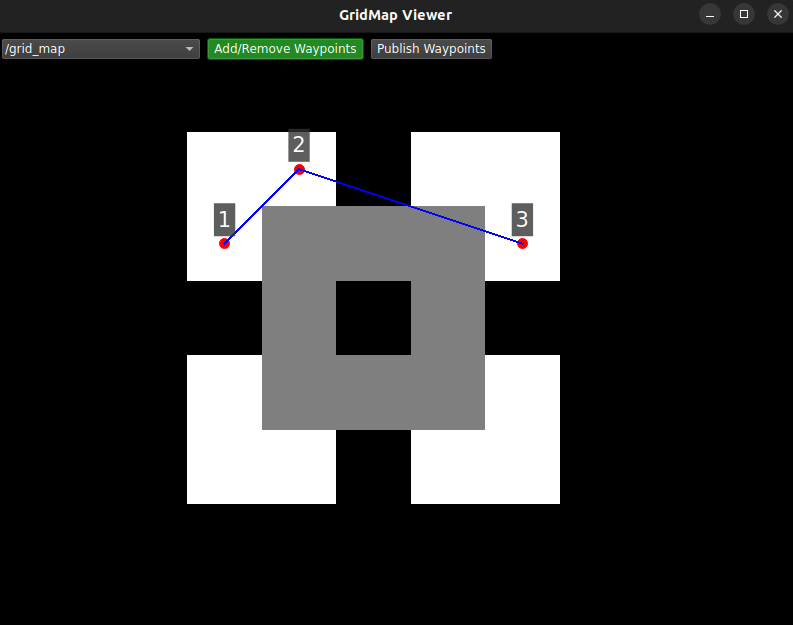
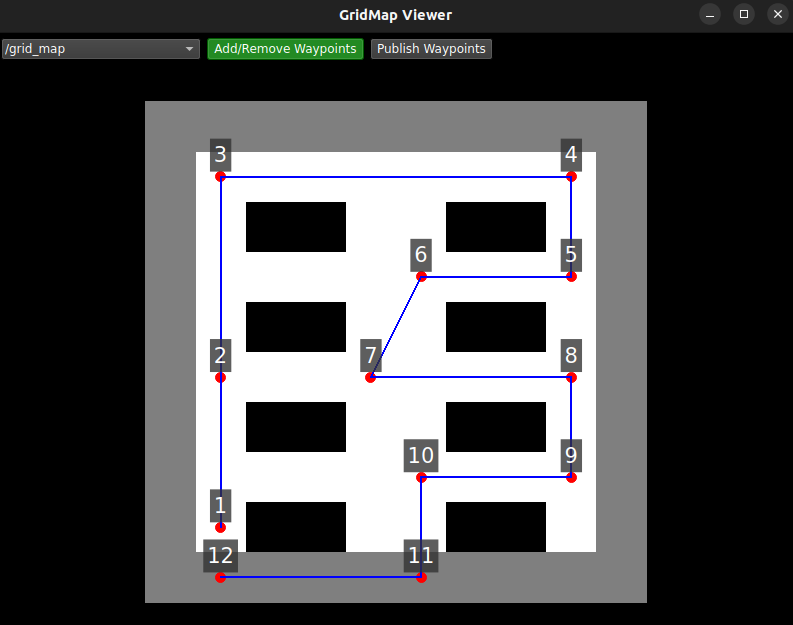
Add way to publish correctly the waypoints into ROS

diff --git a/ros2_teleoperation/gridmap_window.py b/ros2_teleoperation/gridmap_window.py
@@ -12,7 +12,7 @@ from PyQt6.QtWidgets import (
     QApplication, QMainWindow, QWidget,
     QVBoxLayout, QHBoxLayout, QComboBox, QPushButton
 )
-from PyQt6.QtCore import QTimer
+from PyQt6.QtCore import QTimer, QRectF
 from PyQt6.QtGui import QFont
 
 import pyqtgraph as pg
@@ -77,7 +77,6 @@ class GridMapViewer(QMainWindow):
         self.sub = None
         self.map_info = None
         self.waypoints = []
-        # Flag para no resetear vista después de la primera imagen
         self._first_map = True
 
         self.ros_timer = QTimer(self)
@@ -115,13 +114,13 @@ class GridMapViewer(QMainWindow):
         self._first_map = True
 
         if topic_name != '---':
-            sub_qos = QoSProfile(depth=1, reliability=ReliabilityPolicy.BEST_EFFORT)
+            qos = QoSProfile(depth=1, reliability=ReliabilityPolicy.BEST_EFFORT)
             self.sub = self.node.create_subscription(
-                OccupancyGrid, topic_name, self.og_callback, sub_qos)
+                OccupancyGrid, topic_name, self.og_callback, qos)
 
     def og_callback(self, msg: OccupancyGrid):
         self.map_info = msg.info
-        h, w = msg.info.height, msg.info.width
+        h, w = self.map_info.height, self.map_info.width
         data = np.array(msg.data, dtype=np.int8).reshape((h, w))
 
         img = np.empty((h, w), dtype=np.uint8)
@@ -130,6 +129,11 @@ class GridMapViewer(QMainWindow):
         img[data ==100] =   0
 
         self.img_item.setImage(img.T, autoLevels=False)
+        orig = self.map_info.origin.position
+        res = self.map_info.resolution
+        rect = QRectF(orig.x, orig.y, w * res, h * res)
+        self.img_item.setRect(rect)
+
         if self._first_map:
             self.view_box.autoRange()
             self._first_map = False
@@ -137,10 +141,10 @@ class GridMapViewer(QMainWindow):
     def toggle_waypoint_mode(self, checked: bool):
         if checked:
             self.btn_waypoints.setStyleSheet("background-color: green; color: white;")
-            self.graph_widget.scene().sigMouseClicked.connect(self.on_click)
+            self.view_box.scene().sigMouseClicked.connect(self.on_click)
         else:
             self.btn_waypoints.setStyleSheet("")
-            self.graph_widget.scene().sigMouseClicked.disconnect(self.on_click)
+            self.view_box.scene().sigMouseClicked.disconnect(self.on_click)
 
     def _refresh_waypoints(self):
         pts = [{'x': wp[0], 'y': wp[1]} for wp in self.waypoints]
@@ -156,8 +160,7 @@ class GridMapViewer(QMainWindow):
         for idx, (wx, wy) in enumerate(self.waypoints, start=1):
             label = TextItem(str(idx), anchor=(0.5, 1.0), fill=pg.mkBrush(50,50,50,200))
             label.setColor('w')
-            font = QFont()
-            font.setPointSize(16)
+            font = QFont(); font.setPointSize(16)
             label.setFont(font)
             label.setPos(wx, wy + self.map_info.resolution * 0.1)
             self.view_box.addItem(label)
@@ -169,14 +172,12 @@ class GridMapViewer(QMainWindow):
         path_msg = Path()
         path_msg.header.stamp = self.node.get_clock().now().to_msg()
         path_msg.header.frame_id = 'map'
-        poses = []
-        for wp in self.waypoints:
-            pose_stamped = PoseStamped()
-            pose_stamped.header = path_msg.header
-            pose_stamped.pose.position = Point(x=wp[0], y=wp[1], z=0.0)
-            pose_stamped.pose.orientation.w = 1.0
-            poses.append(pose_stamped)
-        path_msg.poses = poses
+        path_msg.poses = []
+        for x, y in self.waypoints:
+            ps = PoseStamped(header=path_msg.header)
+            ps.pose.position = Point(x=x, y=y, z=0.0)
+            ps.pose.orientation.w = 1.0
+            path_msg.poses.append(ps)
         self.wp_pub.publish(path_msg)
 
     def on_click(self, event):
@@ -184,19 +185,19 @@ class GridMapViewer(QMainWindow):
             return
         pos = event.scenePos()
         mp = self.view_box.mapSceneToView(pos)
-        origin = self.map_info.origin.position
+        orig = self.map_info.origin.position
         res = self.map_info.resolution
-        threshold = res * 0.5
+        thr = res * 0.5
         for i, (wx, wy) in enumerate(self.waypoints):
-            if math.hypot(mp.x() - wx, mp.y() - wy) < threshold:
+            if math.hypot(mp.x() - wx, mp.y() - wy) < thr:
                 del self.waypoints[i]
                 self._refresh_waypoints()
                 return
-        ci = int((mp.x() - origin.x) / res)
-        cj = int((mp.y() - origin.y) / res)
+        ci = int((mp.x() - orig.x) / res)
+        cj = int((mp.y() - orig.y) / res)
         if 0 <= ci < self.map_info.width and 0 <= cj < self.map_info.height:
-            wx = origin.x + ci * res + res / 2
-            wy = origin.y + cj * res + res / 2
+            wx = orig.x + ci * res + res / 2
+            wy = orig.y + cj * res + res / 2
             self.waypoints.append((wx, wy))
             self._refresh_waypoints()
 
